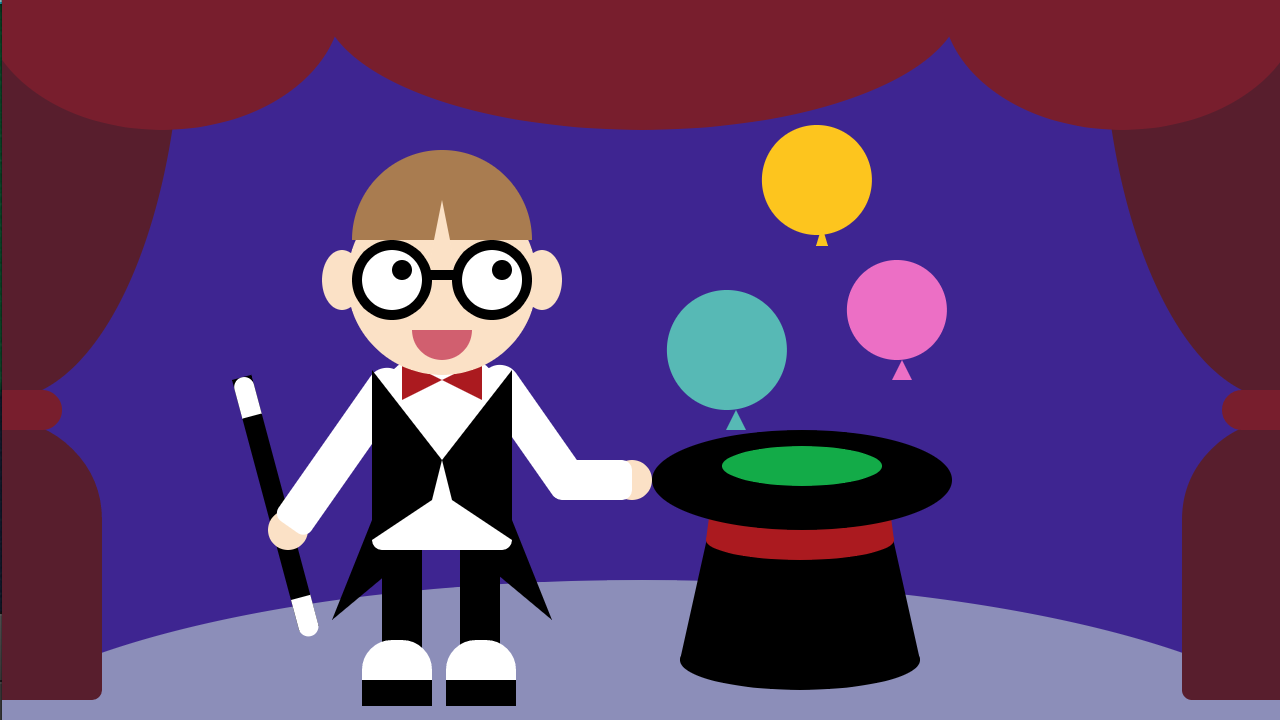
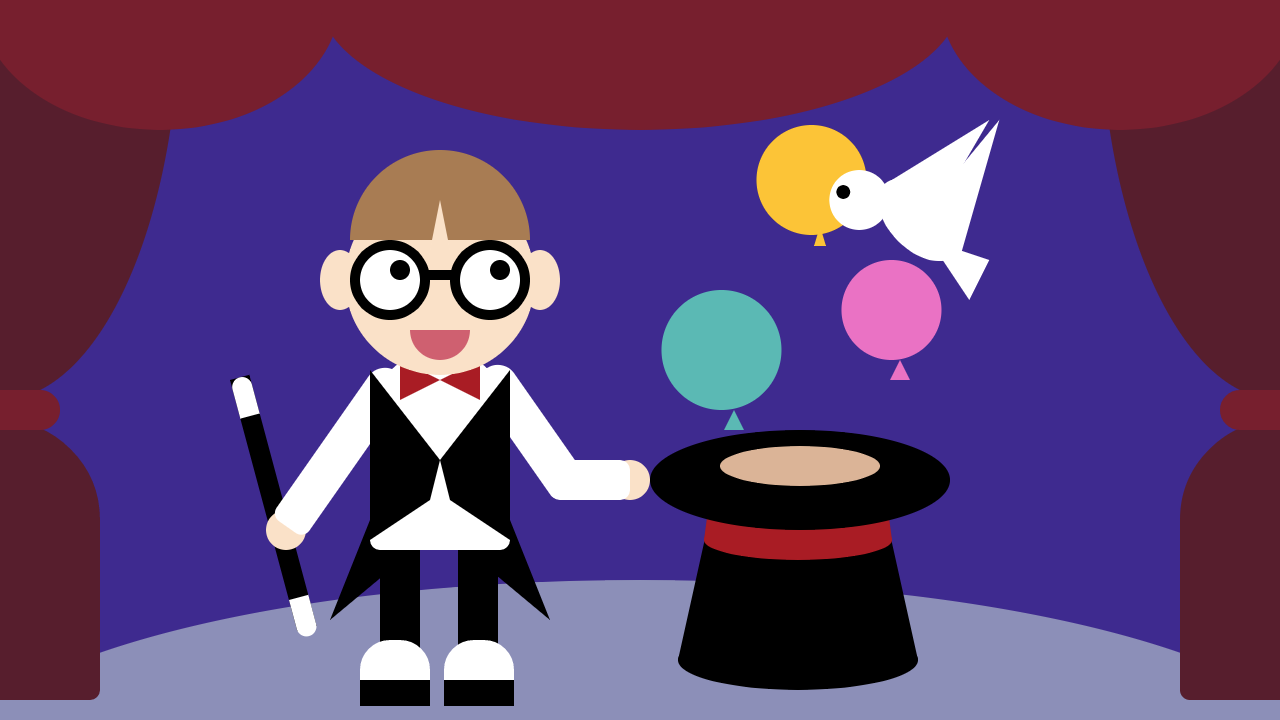
add dove

diff --git a/sketch.js b/sketch.js
@@ -2,7 +2,7 @@ function setup() {
 	// create a place to draw
 	createCanvas(640, 360);
 	noStroke();
-	// noLoop();
+	noLoop();
 }
 
 function draw() {
@@ -172,8 +172,25 @@ function draw() {
 	ellipse(200, 135, 10, 10);
 	ellipse(250, 135, 10, 10);
 	rect(210, 135, 17, 5);
-	// noLoop
+
+	// dove
+	var doveX = random(400, 640);
+	fill(255, 255, 255);
+	ellipse(doveX, 100, 30, 30);
+	fill(0, 0, 0);
+	ellipse(doveX - 8, 96, 7, 7);
+	fill(255, 255, 255);
+	triangle(doveX, 100, doveX + 30, 120, doveX + 65, 60);
+	triangle(doveX + 37, 100, doveX + 50, 130, doveX + 70, 60);
+	triangle(doveX + 35, 120, doveX + 55, 150, doveX + 65, 130);
+	pop();
+	translate(doveX + 30, 110);
+	rotate(radians(45));
+	ellipse(0, 0, 50, 30);
+	push();
+
 }
+
 
 
 }
